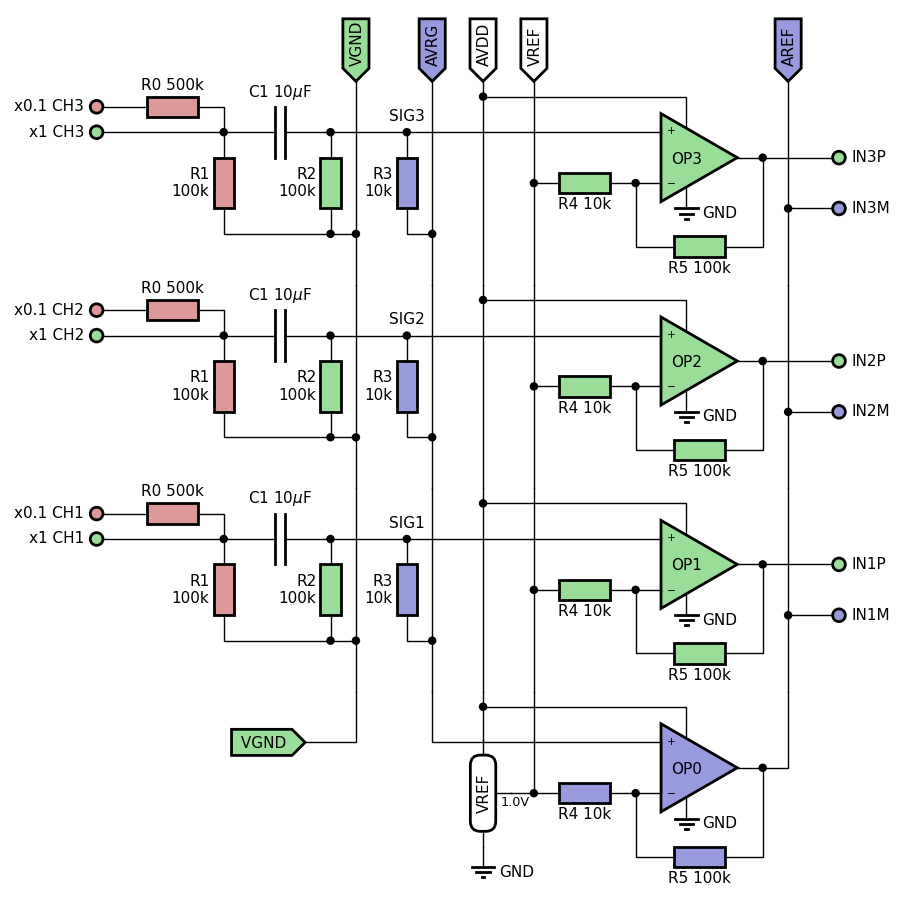
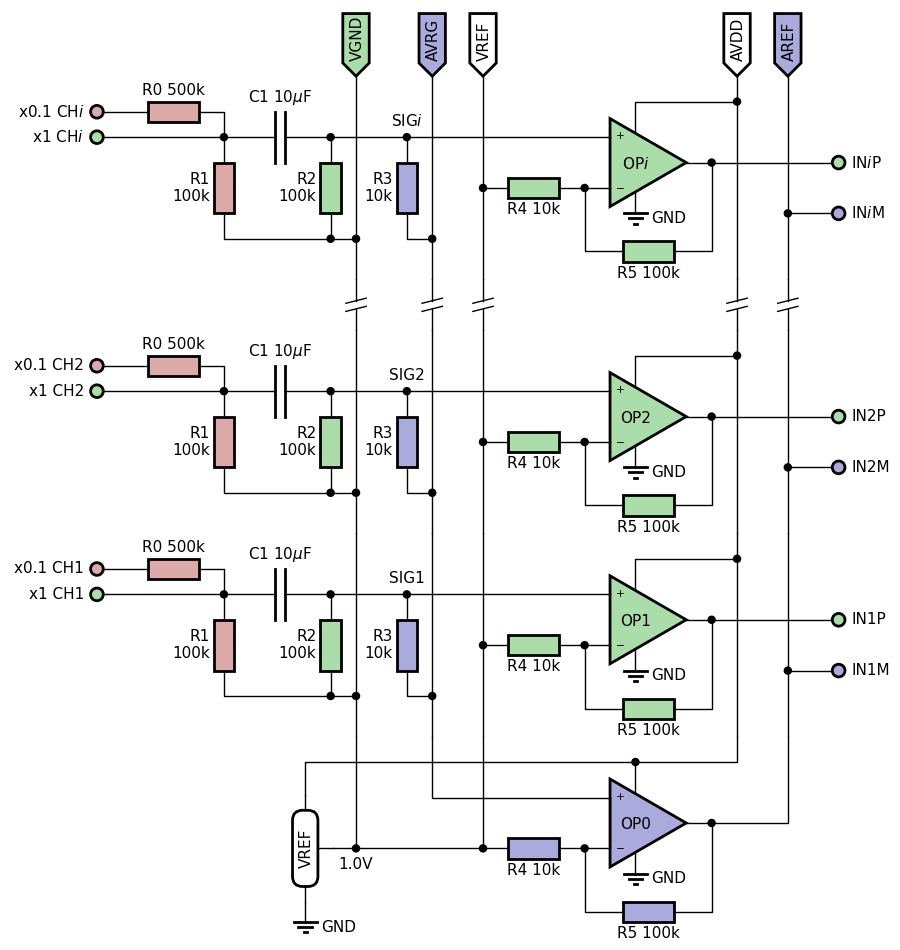
[R5.0] added breaks in circuit

diff --git a/R5.0/amplifiers.py b/R5.0/amplifiers.py
@@ -10,23 +10,26 @@ R4 = '10k'
 R5 = '100k' # gain = 1 + R4/R4
 C1 = '10$\\mu$F'
 
-preamp_style = dict(facecolor='#99DD99')
-refamp_style = dict(facecolor='#9999DD')
-vdiv_style = dict(facecolor='#DD9999')
+preamp_style = dict(facecolor='#AADDAA')
+refamp_style = dict(facecolor='#AAAADD')
+vdiv_style = dict(facecolor='#DDAAAA')
 
 
-def preamp(pos, index, show_bus=True):
-    pn, pp, po, pg, pw = ax.opamp_l(pos, f'OP{1 + index}', 'center', False,
+def preamp(pos, ident, top='none'):
+    pn, pp, po, pg, pw = ax.opamp_l(pos, f'OP{ident}', 'center', False,
                                     **preamp_style)
     gnd1 = ax.ground(pg.down(0.5), 'GND')
     ax.connect((pg, gnd1))
-    npwr = ax.node(pw.up(0.6).left(4))
-    ax.connect((pw, npwr))
-    if show_bus:
-        na = ax.bus(npwr.up(0.3), 'AVDD', 'north')
-        ax.connect((npwr.down(3.7), na))
+    npwr = ax.node(pw.up(0.6).right(2))
+    ax.connect((npwr, pw))
+    if top == 'bus':
+        na = ax.bus(npwr.up(0.5), 'AVDD', 'north')
+        ax.connect((npwr.down(3.5), na))
+    elif top == 'break':
+        bb, bt = ax.break_v(npwr.up(1))
+        ax.connect((npwr.down(3.5), bb))
     else:
-        ax.connect((npwr.down(3.7), npwr.up(0.3)))
+        ax.connect((npwr.down(3.5), npwr.up(0.5)))
 
     ng1 = ax.node(pn.left(0.5))
     r4l, r4r = ax.resistance_h(ng1.left(1), f'R4 {R4}', 'below',
@@ -34,23 +37,29 @@ def preamp(pos, index, show_bus=True):
     ax.connect((pn, ng1, r4r, None, r4l))
 
     np = ax.node(r4l.left(0.5))
-    ax.connect((np.down(2), np,  r4l))
-    if show_bus:
-        nvr = ax.bus(np.up(2), 'VREF', 'north')
+    ax.connect((np.down(1.8), np,  r4l))
+    if top == 'bus':
+        nvr = ax.bus(np.up(2.2), 'VREF', 'north')
         ax.connect((np, nvr))
+    elif top == 'break':
+        bb, bt = ax.break_v(np.up(2.7))
+        ax.connect((np, bb))
     else:
-        ax.connect((np, np.up(2)))
+        ax.connect((np, np.up(2.2)))
     
-    ngr = ax.node(pp.left(5), f'SIG{1 + index}', 'north')
+    ngr = ax.node(pp.left(4), f'SIG{ident}', 'north')
     r3b, r3t = ax.resistance_v(ngr.down(1), f'R3\n{R3}', 'left',
                                **refamp_style)
     nra = ax.node(r3b.down(0.5).right(0.5))
     ax.connect((ngr, r3t, None, r3b, nra))
-    if show_bus:
-        ba = ax.bus(nra.up(3), 'AVRG', 'north', **refamp_style)
-        ax.connect((nra.down(1), ba))
+    if top == 'bus':
+        ba = ax.bus(nra.up(3.2), 'AVRG', 'north', **refamp_style)
+        ax.connect((nra.down(0.8), ba))
+    elif top == 'break':
+        bb, bt = ax.break_v(nra.up(3.7))
+        ax.connect((nra.down(0.8), bb))
     else:
-        ax.connect((nra.down(1), nra.up(3)))
+        ax.connect((nra.down(0.8), nra.up(3.2)))
 
     nrv = ax.node(ngr.left(1.5))
     r2b, r2t = ax.resistance_v(nrv.down(1), f'R2\n{R2}', 'left',
@@ -58,15 +67,18 @@ def preamp(pos, index, show_bus=True):
     nv = ax.node(r2b.down(0.5))
     nv1 = ax.node(nv.right(0.5))
     ax.connect((nrv, r2t, None, r2b, nv, nv1))
-    if show_bus:
-        bv = ax.bus(nv1.up(3), 'VGND', 'north', **preamp_style)
-        ax.connect((nv1.down(1), bv))
+    if top == 'bus':
+        bv = ax.bus(nv1.up(3.2), 'VGND', 'north', **preamp_style)
+        ax.connect((nv1.down(0.8), bv))
+    elif top == 'break':
+        bb, bt = ax.break_v(nv1.up(3.7))
+        ax.connect((nv1.down(0.8), bb))
     else:
-        ax.connect((nv1.down(1), nv1.up(3)))
+        ax.connect((nv1.down(0.8), nv1.up(3.2)))
 
     c1l, c1r = ax.capacitance_h(nrv.left(1), f'C1 {C1}', 'top')
     nsc = ax.node(c1l.left(1))
-    ns1 = ax.pin(nsc.left(2.5), f'x1 CH{1 + index}', 'left',
+    ns1 = ax.pin(nsc.left(2.5), f'x1 CH{ident}', 'left',
                  **preamp_style)
     ax.connect((pp, ngr, nrv, c1r, None, c1l, nsc, ns1))
 
@@ -75,12 +87,12 @@ def preamp(pos, index, show_bus=True):
     ax.connect((nsc, r1t, None, r1b, nv))
     r0l, r0r = ax.resistance_h(nsc.up(0.5).left(1), f'R0 {R0}', 'top',
                                **vdiv_style)
-    ns2 = ax.pin(r0l.left(1), f'x0.1 CH{1 + index}', 'left',
+    ns2 = ax.pin(r0l.left(1), f'x0.1 CH{ident}', 'left',
                  **vdiv_style)
     ax.connect((nsc, r0r, None, r0l, ns2))
 
     ng2 = ax.node(po.right(0.5))
-    no = ax.pin(ng2.right(1.5), f'IN{1 + index%4}P', 'right',
+    no = ax.pin(ng2.right(2.5), f'IN{ident}P', 'right',
                 **preamp_style)
     ax.connect((po, ng2, no))
 
@@ -88,16 +100,20 @@ def preamp(pos, index, show_bus=True):
                                **preamp_style)
     ax.connect((ng1, r5l, None, r5r, ng2))
 
-    nm1 = ax.node(ng2.right(0.5).down(1))
-    nm = ax.pin(nm1.right(1), f'IN{1 + index%4}M', 'right',
+    nm1 = ax.node(ng2.right(1.5).down(1))
+    nm = ax.pin(nm1.right(1), f'IN{ident}M', 'right',
                 **refamp_style)
-    if show_bus:
-        na = ax.bus(nm1.up(2.5), 'AREF', 'north', **refamp_style)
+    if top == 'bus':
+        na = ax.bus(nm1.up(2.7), 'AREF', 'north', **refamp_style)
         ax.connect((na, nm1, nm))
-        ax.connect((nm1, nm1.down(1.5)))
+        ax.connect((nm1, nm1.down(1.3)))
+    elif top == 'break':
+        bb, bt = ax.break_v(nm1.up(3.2))
+        ax.connect((nm1, nm))
+        ax.connect((nm1.down(1.3), bb))
     else:
         ax.connect((nm1, nm))
-        ax.connect((nm1.down(1.5), nm1.up(2.5)))
+        ax.connect((nm1.down(1.3), nm1.up(2.7)))
 
 
 def refamp(pos):
@@ -105,53 +121,52 @@ def refamp(pos):
                                     **refamp_style)
     gnd1 = ax.ground(pg.down(0.5), 'GND')
     ax.connect((pg, gnd1))
-    npwr = ax.node(pw.up(0.6).left(4))
-    ax.connect((pw, npwr, npwr.up(0.3)))
+    npwr = ax.node(pw.up(0.6))
+    ax.connect((pw, npwr, npwr.right(2), npwr.right(2).up(0.5)))
 
-    npr = pp.left(4.5)
-    ax.connect((npr.up(1), npr, pp))
+    npr = pp.left(3.5)
+    ax.connect((npr.up(1.2), npr, pp))
 
     ng1 = ax.node(pn.left(0.5))
     r4l, r4r = ax.resistance_h(ng1.left(1), f'R4 {R4}', 'below',
                                **refamp_style)
     nr1 = ax.node(r4l.left(0.5))
-    pl, pr, pt, pb = ax.chip(nr1.left(1), pins_left=0,
-                             pins_right=[None, '1.0V', None],
+    nr2 = ax.node(nr1.left(2.5), '1.0V', 'below')
+    pl, pr, pt, pb = ax.chip(nr2.left(1), pins_left=0,
+                             pins_right=[None, '', None],
                              pins_top=[''], pins_bottom=[''],
                              palign='bottom', label='VREF',
                              align='center', rotation='vertical')
-    ax.connect((pr[0], nr1, r4l, None, r4r, ng1, pp))
-    ax.connect((nr1, nr1.up(2)))
+    ax.connect((pr[0], nr2, nr1, r4l, None, r4r, ng1, pp))
+    ax.connect((nr1, nr1.up(2.2)))
+    ax.connect((nr2, nr2.up(2.2)))
     ax.connect((npwr, pt[0]))
     gnd2 = ax.ground(pb[0].down(0.5), 'GND')
     ax.connect((pb[0], gnd2))
 
     ng2 = ax.node(po.right(0.5))
-    no = ng2.right(0.5).up(1.5)
+    no = ng2.right(1.5).up(1.7)
     ax.connect((po, ng2, no))
     r5l, r5r = ax.resistance_h(po.left(0.75).down(1.75), f'R5 {R5}', 'below',
                                **refamp_style)
     ax.connect((ng1, r5l, None, r5r, ng2))
-    
-    bv = ax.bus(pp.left(7), ' VGND', 'left', **preamp_style)
-    ax.connect((bv, bv.right(1).up(1)))
 
 
 plt.rcParams['font.size'] = 11
 
-fig, ax = plt.subplots(figsize=(9, 9))
+fig, ax = plt.subplots(figsize=(9, 9.5))
 fig.subplots_adjust(nomargins=True)
 ax.show_spines('')
 #ax.set_xticks_off()
 #ax.set_yticks_off()
 
-ax.set_xlim(-1.5, 16.2)
-ax.set_ylim(-2.5, 15)
+ax.set_xlim(-0.5, 17.2)
+ax.set_ylim(-2.5, 16.2)
 ax.set_aspect('equal')
 
-preamp((12, 12), 2, True)
-preamp((12, 8), 1, False)
-preamp((12, 4), 0, False)
+preamp((12, 13), '$i$', 'bus')
+preamp((12, 8), 2, 'break')
+preamp((12, 4), 1, 'none')
 refamp((12, 0))
 
 fig.savefig()
